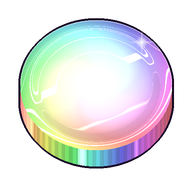
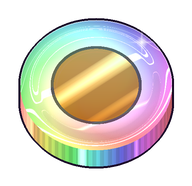
Branche argent-metaux : cœur d'or rond dans le verre du rubis et du légendaire

Changed region(s): [[0.25, 0.2419, 0.75, 0.672]]

diff --git a/VERSION PRINCIPALE/sw.js b/VERSION PRINCIPALE/sw.js
@@ -10,7 +10,7 @@
    Sacha : « vider l'historique de sw.js » — 272 Ko de notes que chaque joueur retéléchargeait à chaque version). ICI, UNE SEULE
    LIGNE : à chaque version on REMPLACE la ligne `const CACHE` ci-dessous (numéro +1, une note courte), sans garder l'ancienne en
    commentaire ; le détail d'une version va dans sa section du journal. */
-const CACHE = 'cashcar-v1289'; /* v1289 BRANCHE argent-metaux (2026-11-07, Léo : « les pièces brillantes et légendaires plus translucides ») émeraude, rubis et légendaire en verre : le fond passe à travers le cœur, bords et reflets pleins, lumière intérieure. */ /* v1288 BRANCHE argent-metaux (2026-11-07, Léo : « plus lumineux, plus flou, pas un bonnet rasta ; le ressenti légendaire de Clash Royale ; une page où je vois tout défiler ») légendaire en pastels irisés fondus qui glissent, pièce plus claire qui tourne en RGB ; vitrine-monnaie.html montre les six paliers et un compteur qui les traverse. */ /* v1287 BRANCHE argent-metaux (2026-11-07, Léo : « le légendaire multicolore en RGB ») la pièce légendaire tourne dans toutes les teintes. */ /* v1286 BRANCHE argent-metaux (2026-11-07, Léo : « euro argenté au milieu et doré au bord, centime unicolore juste bronze brillant ») le centime est d'un seul bronze verni ; l'euro a un cœur argent miroir dans une couronne d'or, et ses chiffres sont argent sur un relief doré. */ /* v1285 BRANCHE argent-metaux (2026-11-07, Léo : « au début un centime brillant comme la Honte, puis un euro comme sur la route, puis or, émeraude, rouge, multicolore légendaire ») six paliers : CENTIME, EURO (bicolore), OR, ÉMERAUDE, RUBIS, LÉGENDAIRE (arc-en-ciel qui défile). */ /* v1284 BRANCHE argent-metaux (2026-11-07, Léo : « la matière de la pièce comme la voiture, polie brillante » ; « la boutique entourée de noir » ; « voir évoluer l'argent ») pièce VERNIE (boîtes à lumière, reflets blancs francs), compte de la boutique sans encre, `?metal=demo` fait défiler les cinq paliers. */ /* v1283 BRANCHE argent-metaux (2026-11-07, Léo : « fais juste une pièce 3D qui changera de matière par palier ») la monnaie devient une PIÈCE 3D (image au compteur, glyphe dans les textes), en cuivre, argent, or, émeraude ou diamant selon la fortune. */ /* v1282 BRANCHE argent-metaux (2026-11-07, Léo : « l'argent, plus tu en as, plus ça évolue ; refonte de la police de l'argent ») le symbole du sketch revient (branche seulement) et l'argent prend un MÉTAL qui suit la fortune : cuivre, argent, or, émeraude, diamant ; vrais € en rose néon. */ /* v1281 (2026-11-07, Sacha : « reviens en arrière sur les trucs de Léo avec le symbole euro, je veux les mêmes symboles euro que avant, les normaux en pixel ») la monnaie dorée 3D de Léo (v1276) est retirée une seconde fois : le € pixel d'avant revient partout. */ /* v1279 (2026-11-07, Léo : « enlève la tin snail ») LA DEUCHE (THE TIN SNAIL) est retirée de nouveau de la boutique ; le Taxi jaune reste. */ /* v1278 (2026-11-07, Sacha : « enlève TOUT et TRI ORDRE » · « les photos des voitures sont coupées » · « les photos des ailes sont buggées ») l'inventaire du coffre sans pastilles TOUT · TRI ; photos de la bande de l'atelier entières dans leur tuile. */ /* v1277 (2026-11-07, Léo : « sa règle compte : quand on appuie ACHETER, la vitre se casse et elle disparaît ») boutique : à l'achat la vitre se brise (vitre-brisee.js) et disparaît de la vitrine — la carte reçoit sa photo sans verre ; une caisse à toi n'a plus de vitre (règle de Sacha). */ /* v1276 (2026-11-07, Léo : « renvoie-la, dorée en 3D ») LA MONNAIE DU JEU revient (annulée sans mot) : le symbole du sketch, retaillé net, est un glyphe des polices (CUR() partout) et une IMAGE OR 3D au compteur, qui saute à chaque gain ; les vrais euros des offres restent en €. */ /* v1274 (2026-11-07, Léo : « laisse le socle noir de Sacha, je ne vois plus les vitres ») boutique : la vitrine des voitures reprend le socle NOIR VERNI de Sacha (avec le quadrillage, le verre et le fond de studio de Léo), et la vitre reste sur les caisses à toi ; le bloc de route : vitrine=route. */ /* v1273 (2026-11-07, Sacha : « lance une vraie chasse aux bugs ultra complète […] un soin particulier au son ») LA CHASSE : JOUER pendant la chauffe ne fige plus l'atelier (garage-rendu.js) ; ANNULER et SÉRIE en anglais ; la mission des couleurs n'est plus offerte sur le web ; les peintures gagnées restent dans MISSIONS au rechargement ; MAUVAIS SENS s'efface après QUITTER ; le pré-bâti retrouve sa chance à chaque partie ; le rayon de la boutique suit la vedette ; la 3D de l'ordi suit le zoom du cadre ; ROSSO 40 sans faux prix ; et LE SON : sons de course chauffés avant le départ (sfx.js v11), Pouce bleu muet en pause, RECOMMENCER tire un morceau neuf, air de la boutique rebranché, rouleaux du spin, boule de l'intro avec délai de secours, graphe endormi quand tout est coupé, bips du 3-2-1 sans paquet. */ /* v1272 (2026-11-07, Sacha : « remets l'ancien caractère €, annule le push de Léo ») la monnaie du sketch de Léo (v1254, v1256, v1269) est retirée : le € d'avant revient partout. */ /* v1271 (2026-11-07, Sacha : « organise-toi pour tout pousser avec soin ») LE RATTRAPAGE DE L'ARBRE PARTAGÉ : Final Spin réparé en mobile (final-spin.css), boutique — un système par rayon (peinture, ailes, traînées, figures : boutique-*.js/css), missions — l'écran de mission seulement pour une caisse, pièces ramassées 9 dB plus bas, ligne POUCE HAUT retirée dans le cadre téléphone de l'ordi. v1270 (2026-11-07, Léo : « la plaque noire, c'est un bloc de route du jeu » puis « oui, sur le main ») boutique : la vitrine des voitures a pour socle un BLOC DE LA ROUTE DU JEU (béton brut, flancs, lignes, liseré de rareté), photographié en 3D avec la caisse, sous le verre teinté de la rareté et son fond de studio ; vitrine=0 = le cube d'avant. */ /* v1269 (2026-11-07, Léo : « plus 3D jeu vidéo, là on dirait un euro ») le symbole de la monnaie prend un corps extrudé vers le bas-droite, séparé de sa face par un filet. */ /* v1267 (2026-11-07, Léo : « missions un peu plus petites, flottantes, un toucher les avance, un second les choisit ») LE VISEUR : profondeur des cartes. */ /* v1266 (2026-11-07, Sacha : « dans le garage il y a des tas de billets qui flottent ») les deux piles de billets posées sur des fûts disparus de l'atelier sont retirées (argent-atelier.js).  v1265 (2026-11-07, Léo : « un push a annulé le travail de la voiture dans le cube, il y a une plaque noire ») boutique : la vitrine miniature (socle noir verni) est éteinte par défaut, retour aux cubes de verre à sol quadrillé ; la vitrine s'allume avec vitrine=1. */ /* v1264 (2026-11-05, Sacha : « enlève la pluie dans le biome canyon des géants » · « l'orage aussi ») LE CANYON SANS PLUIE : les météos PLUIE et ORAGE du canyon sortent du tirage (p:0, niveaux.js) : il reste le matin, le soir et la nuit ; `?carte=canyon&meteo=pluie` (ou `orage`) les joue encore ; la mission « toutes ses météos » ne compte plus les météos hors du tirage (defis-moteur.js). */ /* v1262 (2026-11-07, Sacha : « lance une vraie chasse aux bugs ultra complète […] un soin particulier au son ») LA CHASSE : JOUER pendant la chauffe ne fige plus l'atelier (garage-rendu.js) ; ANNULER et SÉRIE en anglais ; la mission des couleurs n'est plus offerte sur le web ; les peintures gagnées restent dans MISSIONS au rechargement ; MAUVAIS SENS s'efface après QUITTER ; le pré-bâti retrouve sa chance à chaque partie ; le rayon de la boutique suit la vedette ; la 3D de l'ordi suit le zoom du cadre ; ROSSO 40 sans faux prix ; et LE SON : sons de course chauffés avant le départ (sfx.js v11), Pouce bleu muet en pause, RECOMMENCER tire un morceau neuf, air de la boutique rebranché, rouleaux du spin, boule de l'intro avec délai de secours, graphe endormi quand tout est coupé, bips du 3-2-1 sans paquet. */ /* v1261 (2026-11-07, Léo : « je veux que ça remplace le système de missions tout listé direct ») LES MISSIONS NOUVELLE FORME : 3 missions tirées au hasard autour de la caisse (LE VISEUR), cadeaux garantis, reprise de la progression ; ?pass=0 pour l'ancien. */ /* v1260 (2026-11-07, Sacha : « horrible, retourne en arrière ») menu ciel : retour aux tuiles GARAGE / ACHAT / REGLAGES d'avant (verre anthracite) ; les tuiles en bonbon clair de v1256 sont retirées. */
+const CACHE = 'cashcar-v1290'; /* v1290 BRANCHE argent-metaux (2026-11-07, Léo : « comme l'euro, dans le verre du rouge et du multicolore, un cœur rond, mais doré ») rubis et légendaire ont un cœur d'or miroir pris dans le verre. */ /* v1289 BRANCHE argent-metaux (2026-11-07, Léo : « les pièces brillantes et légendaires plus translucides ») émeraude, rubis et légendaire en verre : le fond passe à travers le cœur, bords et reflets pleins, lumière intérieure. */ /* v1288 BRANCHE argent-metaux (2026-11-07, Léo : « plus lumineux, plus flou, pas un bonnet rasta ; le ressenti légendaire de Clash Royale ; une page où je vois tout défiler ») légendaire en pastels irisés fondus qui glissent, pièce plus claire qui tourne en RGB ; vitrine-monnaie.html montre les six paliers et un compteur qui les traverse. */ /* v1287 BRANCHE argent-metaux (2026-11-07, Léo : « le légendaire multicolore en RGB ») la pièce légendaire tourne dans toutes les teintes. */ /* v1286 BRANCHE argent-metaux (2026-11-07, Léo : « euro argenté au milieu et doré au bord, centime unicolore juste bronze brillant ») le centime est d'un seul bronze verni ; l'euro a un cœur argent miroir dans une couronne d'or, et ses chiffres sont argent sur un relief doré. */ /* v1285 BRANCHE argent-metaux (2026-11-07, Léo : « au début un centime brillant comme la Honte, puis un euro comme sur la route, puis or, émeraude, rouge, multicolore légendaire ») six paliers : CENTIME, EURO (bicolore), OR, ÉMERAUDE, RUBIS, LÉGENDAIRE (arc-en-ciel qui défile). */ /* v1284 BRANCHE argent-metaux (2026-11-07, Léo : « la matière de la pièce comme la voiture, polie brillante » ; « la boutique entourée de noir » ; « voir évoluer l'argent ») pièce VERNIE (boîtes à lumière, reflets blancs francs), compte de la boutique sans encre, `?metal=demo` fait défiler les cinq paliers. */ /* v1283 BRANCHE argent-metaux (2026-11-07, Léo : « fais juste une pièce 3D qui changera de matière par palier ») la monnaie devient une PIÈCE 3D (image au compteur, glyphe dans les textes), en cuivre, argent, or, émeraude ou diamant selon la fortune. */ /* v1282 BRANCHE argent-metaux (2026-11-07, Léo : « l'argent, plus tu en as, plus ça évolue ; refonte de la police de l'argent ») le symbole du sketch revient (branche seulement) et l'argent prend un MÉTAL qui suit la fortune : cuivre, argent, or, émeraude, diamant ; vrais € en rose néon. */ /* v1281 (2026-11-07, Sacha : « reviens en arrière sur les trucs de Léo avec le symbole euro, je veux les mêmes symboles euro que avant, les normaux en pixel ») la monnaie dorée 3D de Léo (v1276) est retirée une seconde fois : le € pixel d'avant revient partout. */ /* v1279 (2026-11-07, Léo : « enlève la tin snail ») LA DEUCHE (THE TIN SNAIL) est retirée de nouveau de la boutique ; le Taxi jaune reste. */ /* v1278 (2026-11-07, Sacha : « enlève TOUT et TRI ORDRE » · « les photos des voitures sont coupées » · « les photos des ailes sont buggées ») l'inventaire du coffre sans pastilles TOUT · TRI ; photos de la bande de l'atelier entières dans leur tuile. */ /* v1277 (2026-11-07, Léo : « sa règle compte : quand on appuie ACHETER, la vitre se casse et elle disparaît ») boutique : à l'achat la vitre se brise (vitre-brisee.js) et disparaît de la vitrine — la carte reçoit sa photo sans verre ; une caisse à toi n'a plus de vitre (règle de Sacha). */ /* v1276 (2026-11-07, Léo : « renvoie-la, dorée en 3D ») LA MONNAIE DU JEU revient (annulée sans mot) : le symbole du sketch, retaillé net, est un glyphe des polices (CUR() partout) et une IMAGE OR 3D au compteur, qui saute à chaque gain ; les vrais euros des offres restent en €. */ /* v1274 (2026-11-07, Léo : « laisse le socle noir de Sacha, je ne vois plus les vitres ») boutique : la vitrine des voitures reprend le socle NOIR VERNI de Sacha (avec le quadrillage, le verre et le fond de studio de Léo), et la vitre reste sur les caisses à toi ; le bloc de route : vitrine=route. */ /* v1273 (2026-11-07, Sacha : « lance une vraie chasse aux bugs ultra complète […] un soin particulier au son ») LA CHASSE : JOUER pendant la chauffe ne fige plus l'atelier (garage-rendu.js) ; ANNULER et SÉRIE en anglais ; la mission des couleurs n'est plus offerte sur le web ; les peintures gagnées restent dans MISSIONS au rechargement ; MAUVAIS SENS s'efface après QUITTER ; le pré-bâti retrouve sa chance à chaque partie ; le rayon de la boutique suit la vedette ; la 3D de l'ordi suit le zoom du cadre ; ROSSO 40 sans faux prix ; et LE SON : sons de course chauffés avant le départ (sfx.js v11), Pouce bleu muet en pause, RECOMMENCER tire un morceau neuf, air de la boutique rebranché, rouleaux du spin, boule de l'intro avec délai de secours, graphe endormi quand tout est coupé, bips du 3-2-1 sans paquet. */ /* v1272 (2026-11-07, Sacha : « remets l'ancien caractère €, annule le push de Léo ») la monnaie du sketch de Léo (v1254, v1256, v1269) est retirée : le € d'avant revient partout. */ /* v1271 (2026-11-07, Sacha : « organise-toi pour tout pousser avec soin ») LE RATTRAPAGE DE L'ARBRE PARTAGÉ : Final Spin réparé en mobile (final-spin.css), boutique — un système par rayon (peinture, ailes, traînées, figures : boutique-*.js/css), missions — l'écran de mission seulement pour une caisse, pièces ramassées 9 dB plus bas, ligne POUCE HAUT retirée dans le cadre téléphone de l'ordi. v1270 (2026-11-07, Léo : « la plaque noire, c'est un bloc de route du jeu » puis « oui, sur le main ») boutique : la vitrine des voitures a pour socle un BLOC DE LA ROUTE DU JEU (béton brut, flancs, lignes, liseré de rareté), photographié en 3D avec la caisse, sous le verre teinté de la rareté et son fond de studio ; vitrine=0 = le cube d'avant. */ /* v1269 (2026-11-07, Léo : « plus 3D jeu vidéo, là on dirait un euro ») le symbole de la monnaie prend un corps extrudé vers le bas-droite, séparé de sa face par un filet. */ /* v1267 (2026-11-07, Léo : « missions un peu plus petites, flottantes, un toucher les avance, un second les choisit ») LE VISEUR : profondeur des cartes. */ /* v1266 (2026-11-07, Sacha : « dans le garage il y a des tas de billets qui flottent ») les deux piles de billets posées sur des fûts disparus de l'atelier sont retirées (argent-atelier.js).  v1265 (2026-11-07, Léo : « un push a annulé le travail de la voiture dans le cube, il y a une plaque noire ») boutique : la vitrine miniature (socle noir verni) est éteinte par défaut, retour aux cubes de verre à sol quadrillé ; la vitrine s'allume avec vitrine=1. */ /* v1264 (2026-11-05, Sacha : « enlève la pluie dans le biome canyon des géants » · « l'orage aussi ») LE CANYON SANS PLUIE : les météos PLUIE et ORAGE du canyon sortent du tirage (p:0, niveaux.js) : il reste le matin, le soir et la nuit ; `?carte=canyon&meteo=pluie` (ou `orage`) les joue encore ; la mission « toutes ses météos » ne compte plus les météos hors du tirage (defis-moteur.js). */ /* v1262 (2026-11-07, Sacha : « lance une vraie chasse aux bugs ultra complète […] un soin particulier au son ») LA CHASSE : JOUER pendant la chauffe ne fige plus l'atelier (garage-rendu.js) ; ANNULER et SÉRIE en anglais ; la mission des couleurs n'est plus offerte sur le web ; les peintures gagnées restent dans MISSIONS au rechargement ; MAUVAIS SENS s'efface après QUITTER ; le pré-bâti retrouve sa chance à chaque partie ; le rayon de la boutique suit la vedette ; la 3D de l'ordi suit le zoom du cadre ; ROSSO 40 sans faux prix ; et LE SON : sons de course chauffés avant le départ (sfx.js v11), Pouce bleu muet en pause, RECOMMENCER tire un morceau neuf, air de la boutique rebranché, rouleaux du spin, boule de l'intro avec délai de secours, graphe endormi quand tout est coupé, bips du 3-2-1 sans paquet. */ /* v1261 (2026-11-07, Léo : « je veux que ça remplace le système de missions tout listé direct ») LES MISSIONS NOUVELLE FORME : 3 missions tirées au hasard autour de la caisse (LE VISEUR), cadeaux garantis, reprise de la progression ; ?pass=0 pour l'ancien. */ /* v1260 (2026-11-07, Sacha : « horrible, retourne en arrière ») menu ciel : retour aux tuiles GARAGE / ACHAT / REGLAGES d'avant (verre anthracite) ; les tuiles en bonbon clair de v1256 sont retirées. */
 const CORE = ['./', './index.html', './manifest.webmanifest', './icon.svg'];
 
 self.addEventListener('install', e => {
